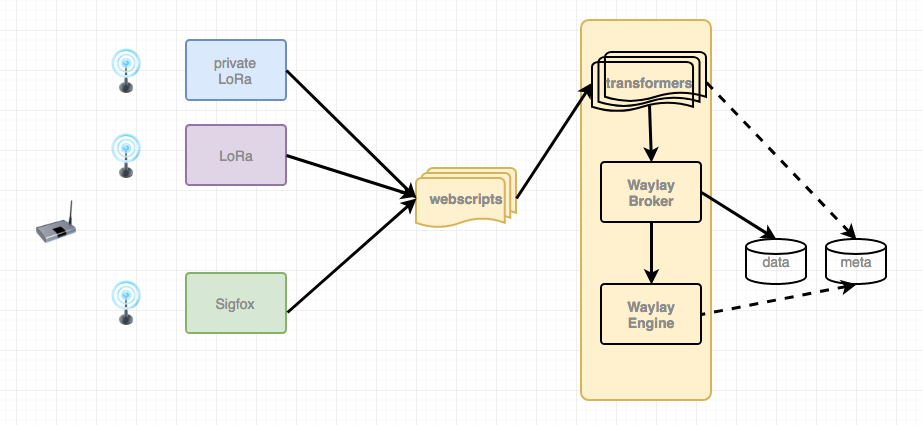
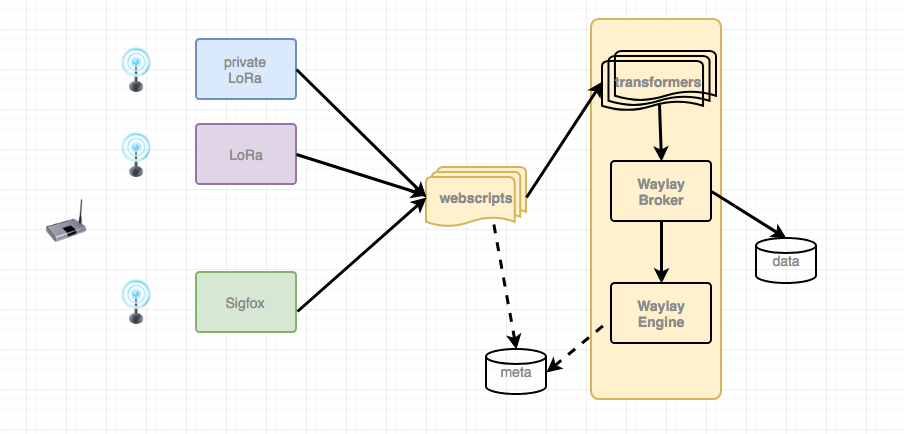
update of the document for LPWAN and provisioning

diff --git a/content/features/lpwan.md b/content/features/lpwan.md
@@ -36,7 +36,10 @@ In first case, integrator will always have one webscript/transformer pair, while
 In case that we use one webscript for all backends, our configuration will look like this:
 ![LPWAN](features/lpwan/case_2.png)
 
-Every time a new LoRa backend server is added, which has a different payload format, we must update this webscript. Advantage of doing the integration this way is that there is always one single script that manages all different integration use cases for the same device type. On the other hand, every time a new backend server is added, the existing script must be adjusted. Editing the existing webscript, which is already in production, always introduces a small but possible risk of making some mistakes, breaking all existing integrations.
+Every time a new LoRa backend server is added, which has a different payload format, we must update this webscript. Advantage of doing the integration this way is that there is always one single script that manages all different integration use cases for the same device type. 
+Another reason to have only one webscript is that if the developer wants to apply [provisioning](/features/provisioning) by direct calls on the meta model of a device (e.g. by assigning it to a particular group to which rules are attached), then it makes more sense to do it only in one place.
+
+On the other hand, every time a new backend server is added, the existing script must be adjusted. Editing the existing webscript, which is already in production, always introduces a small but possible risk of making some mistakes, breaking all existing integrations. 
 Another possible difficulty is that based on the payload, a developer must somehow guess the "routing algorithm", knowing which exactly payload transformation to apply - before calling the transformer. More over, as the input object might come as a XML, JSON or a string, special care must be taken that the existing script doesn't break somewhere in the middle.
 
 One interesting integration pattern can be to use webscripts only for different LoRa backends, while directly connecting transformer to the Sigfox backend, as presented below:
